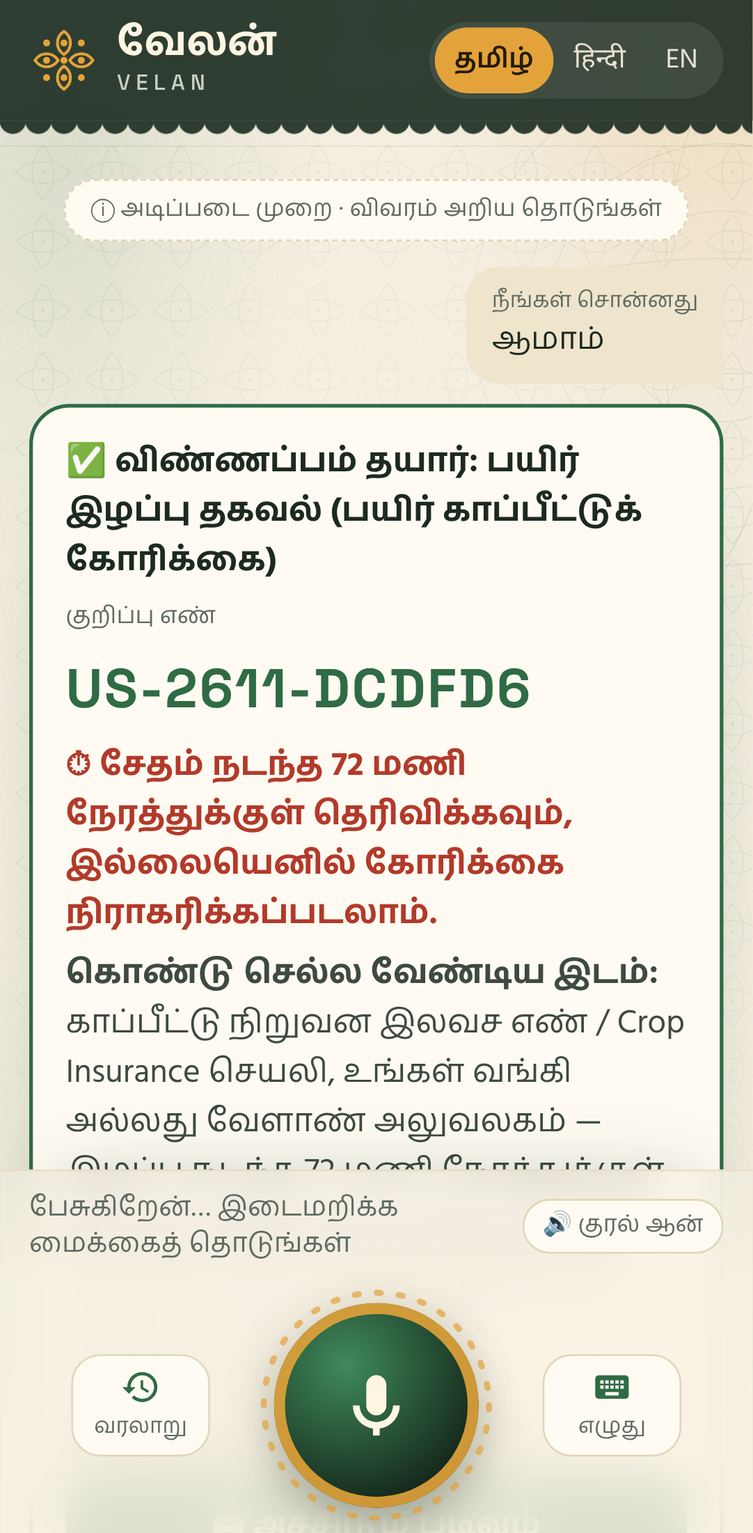
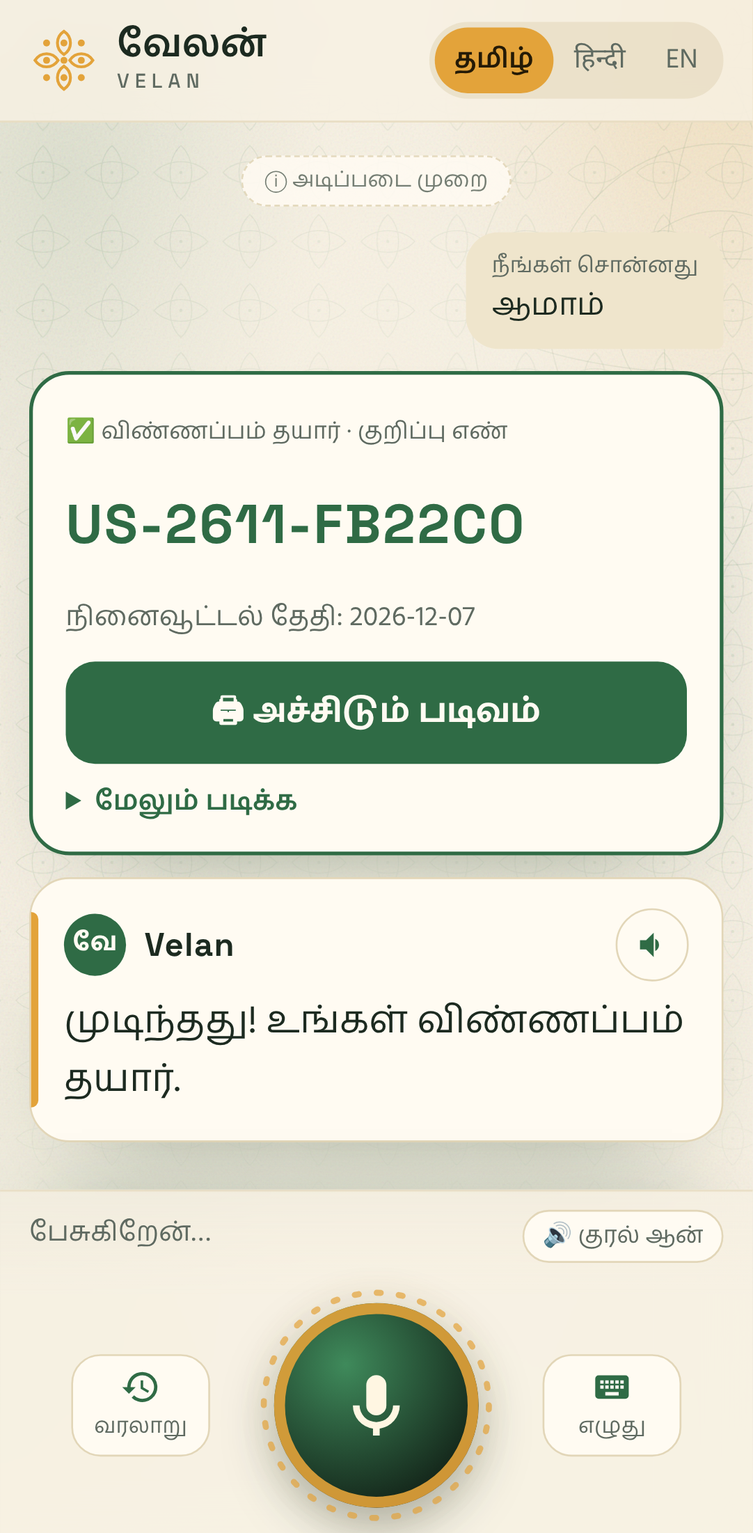
Make the app lighter and simpler to read
- Short on-screen words: one-line greeting, short status lines, tiles
  with a two-word label instead of long titles and example sentences
- Replies show at most two sentences, with "Read more" for the rest;
  Velan still speaks the full reply
- Documents appear as a checklist and the read-back as a tidy two-column
  list after the reply, instead of long sentences
- Finished application shows only the reference number, follow-up date
  and print button; where to go and deadlines sit behind "More"
- Light header instead of the dark band, light scheme-finder tile,
  lighter type weights; "My applications" moved into the History drawer

Claude-Session: https://claude.ai/code/session_01EF6aXxjPbdzoTGbQh3hmJM

Changed region(s): [[0.0, 0.0, 1.0, 0.8338], [0.793, 0.9882, 0.854, 1.0], [0.1525, 0.9882, 0.2135, 1.0]]

diff --git a/web/app.js b/web/app.js
@@ -3,11 +3,11 @@
 /* ---------------- words on screen, in three languages ---------------- */
 const UI = {
   helloTitle: { en: "Vanakkam!", ta: "வணக்கம்!", hi: "नमस्ते!" },
-  helloSub: { en: "Tap the mic and tell me what you need, in your own words.", ta: "மைக்கைத் தொட்டு, உங்களுக்கு என்ன வேண்டும் என்று உங்கள் வார்த்தைகளில் சொல்லுங்கள்.", hi: "माइक दबाइए और अपने शब्दों में बताइए कि आपको क्या चाहिए।" },
-  tap: { en: "Tap the mic and speak", ta: "மைக்கைத் தொட்டுப் பேசுங்கள்", hi: "माइक दबाकर बोलिए" },
-  listening: { en: "Listening… tap again when you finish", ta: "கேட்கிறேன்… முடிந்ததும் மீண்டும் தொடுங்கள்", hi: "सुन रहा हूँ… बोलकर फिर दबाइए" },
+  helloSub: { en: "What do you need today?", ta: "இன்று என்ன உதவி வேண்டும்?", hi: "आज क्या मदद चाहिए?" },
+  tap: { en: "Tap to speak", ta: "தொட்டுப் பேசுங்கள்", hi: "दबाकर बोलिए" },
+  listening: { en: "Listening…", ta: "கேட்கிறேன்…", hi: "सुन रहा हूँ…" },
   thinking: { en: "Working on it", ta: "பார்க்கிறேன்", hi: "देख रहा हूँ" },
-  speaking: { en: "Speaking… tap the mic to interrupt", ta: "பேசுகிறேன்… இடைமறிக்க மைக்கைத் தொடுங்கள்", hi: "बोल रहा हूँ… रोकने के लिए माइक दबाएँ" },
+  speaking: { en: "Speaking…", ta: "பேசுகிறேன்…", hi: "बोल रहा हूँ…" },
   noMic: { en: "Voice input isn't available in this browser. Please type instead.", ta: "இந்த உலாவியில் குரல் உள்ளீடு இல்லை. தட்டச்சு செய்யுங்கள்.", hi: "इस ब्राउज़र में आवाज़ इनपुट नहीं है। कृपया टाइप करें।" },
   heardNothing: { en: "Sorry, I didn't catch that. Please say it again.", ta: "மன்னிக்கவும், சரியாகக் கேட்கவில்லை. மீண்டும் சொல்லுங்கள்.", hi: "माफ़ कीजिए, ठीक से सुनाई नहीं दिया। फिर से बोलिए।" },
   typeHere: { en: "Type here…", ta: "இங்கே தட்டச்சு செய்யுங்கள்…", hi: "यहाँ लिखें…" },
@@ -38,28 +38,35 @@ const UI = {
   apply: { en: "Apply", ta: "விண்ணப்பி", hi: "आवेदन करें" },
   applyFor: { en: "I want to apply for", ta: "நான் விண்ணப்பிக்க வேண்டும்:", hi: "मुझे आवेदन करना है:" },
   findSchemes: { en: "Which schemes can I get?", ta: "எனக்கு எந்தத் திட்டங்கள் கிடைக்கும்?", hi: "मुझे कौन सी योजनाएँ मिल सकती हैं?" },
-  findSchemesSub: { en: "9 quick questions, every benefit you can claim", ta: "9 சிறு கேள்விகள் — நீங்கள் பெறக்கூடிய எல்லாப் பலன்களும்", hi: "9 छोटे सवाल — आपको मिलने वाले सारे लाभ" },
+  findSchemesSub: { en: "Find out in 9 questions", ta: "9 கேள்விகளில் தெரிந்துகொள்ளுங்கள்", hi: "9 सवालों में जानिए" },
   myApps: { en: "My applications", ta: "என் விண்ணப்பங்கள்", hi: "मेरे आवेदन" },
   sources: { en: "From", ta: "ஆதாரம்", hi: "स्रोत" },
   unverified: { en: "confirm at the office", ta: "அலுவலகத்தில் உறுதி செய்யவும்", hi: "कार्यालय में पुष्टि करें" },
   voiceOn: { en: "🔊 Voice on", ta: "🔊 குரல் ஆன்", hi: "🔊 आवाज़ चालू" },
   voiceOff: { en: "🔇 Voice off", ta: "🔇 குரல் ஆஃப்", hi: "🔇 आवाज़ बंद" },
-  basicMode: { en: "Basic mode · tap for details", ta: "அடிப்படை முறை · விவரம் அறிய தொடுங்கள்", hi: "बेसिक मोड · विवरण के लिए दबाएँ" },
+  basicMode: { en: "Basic mode", ta: "அடிப்படை முறை", hi: "बेसिक मोड" },
+  doneShort: { en: "Done! Your application is ready.", ta: "முடிந்தது! உங்கள் விண்ணப்பம் தயார்.", hi: "हो गया! आपका आवेदन तैयार है।" },
+  checkDetails: { en: "Are these details correct?", ta: "இந்த விவரங்கள் சரியா?", hi: "क्या ये जानकारी सही है?" },
+  schemesFound: { en: "Here are the schemes for you.", ta: "உங்களுக்கான திட்டங்கள் இதோ.", hi: "ये रहीं आपके लिए योजनाएँ।" },
+  bring: { en: "Bring these", ta: "கொண்டு வர வேண்டியவை", hi: "ये साथ लाएँ" },
+  more: { en: "Read more", ta: "மேலும் படிக்க", hi: "और पढ़ें" },
+  less: { en: "Show less", ta: "குறைவாகக் காட்டு", hi: "कम दिखाएँ" },
   keyNotSet: { en: "AI key not set: the main services work fully; free-form questions are understood better with the key.", ta: "AI சாவி அமைக்கப்படவில்லை: முக்கிய சேவைகள் முழுமையாக வேலை செய்யும்; சாவியுடன் இயல்பான பேச்சை இன்னும் நன்றாகப் புரிந்துகொள்ளும்.", hi: "AI कुंजी सेट नहीं है: मुख्य सेवाएँ पूरी तरह काम करती हैं; कुंजी के साथ खुली बातचीत बेहतर समझी जाती है।" },
   speechKeyNotSet: { en: "Speech key not set: using this phone's own voice recognition.", ta: "பேச்சு சாவி அமைக்கப்படவில்லை: இந்த போனின் குரல் அறிதல் பயன்படுத்தப்படுகிறது.", hi: "स्पीच कुंजी सेट नहीं है: फ़ोन की अपनी आवाज़ पहचान इस्तेमाल हो रही है।" },
 };
 
-/* the home tiles: service id → picture; titles and example sentences come from the server */
+/* the home tiles: a short label to read, and a sentence that starts the request */
 const TILES = [
-  { id: "crop_insurance", ico: "🌾" },
-  { id: "drip_irrigation", ico: "💧" },
-  { id: "solar_pump", ico: "☀" },
-  { id: "pm_kisan", ico: "🪙" },
-  { id: "compare_methods", ico: "🌿" },
-  { id: "nammalvar", ico: "🪔" },
-  { id: "old_age_pension", ico: "🙏" },
-  { id: "grievance", ico: "📣" },
+  { ico: "🌾", label: { ta: "பயிர் சேதம்", en: "Crop damage", hi: "फसल नुकसान" }, say: { ta: "நேற்று மழையில் என் நெல் சேதமானது", en: "Rain destroyed my paddy yesterday", hi: "कल बारिश से मेरी फसल खराब हो गई" } },
+  { ico: "💧", label: { ta: "சொட்டு நீர்", en: "Drip irrigation", hi: "ड्रिप सिंचाई" }, say: { ta: "சொட்டு நீர் பாசனம் வேண்டும்", en: "I want drip irrigation", hi: "मुझे ड्रिप सिंचाई चाहिए" } },
+  { ico: "☀", label: { ta: "சோலார் பம்ப்", en: "Solar pump", hi: "सोलर पंप" }, say: { ta: "சோலார் பம்ப் வேண்டும்", en: "I want a solar pump", hi: "मुझे सोलर पंप चाहिए" } },
+  { ico: "🪙", label: { ta: "பிஎம்-கிசான்", en: "PM-KISAN", hi: "पीएम-किसान" }, say: { ta: "பிஎம் கிசான்", en: "PM Kisan", hi: "पीएम किसान" } },
+  { ico: "🌿", label: { ta: "இயற்கை / ரசாயனம்", en: "Organic or chemical", hi: "जैविक या रासायनिक" }, say: { ta: "ரசாயன உரமா இயற்கை உரமா, எது நல்லது?", en: "Chemical or organic fertiliser, which is better?", hi: "रासायनिक या जैविक खाद, कौन सा बेहतर है?" } },
+  { ico: "🪔", label: { ta: "நம்மாழ்வார் முறை", en: "Nammalvar’s way", hi: "नम्मालवार विधि" }, say: { ta: "நம்மாழ்வார் இயற்கை வேளாண்மை", en: "Nammalvar natural farming", hi: "नम्मालवार प्राकृतिक खेती" } },
+  { ico: "🙏", label: { ta: "ஓய்வூதியம்", en: "Pension", hi: "पेंशन" }, say: { ta: "முதியோர் ஓய்வூதியம்", en: "Old age pension", hi: "वृद्धावस्था पेंशन" } },
+  { ico: "📣", label: { ta: "புகார்", en: "Complaint", hi: "शिकायत" }, say: { ta: "புகார் கொடுக்க வேண்டும்", en: "I want to file a complaint", hi: "मुझे शिकायत करनी है" } },
 ];
+const pick = (o) => o[state.lang] || o.en;
 
 const state = {
   lang: localGet("velan.lang") || "ta",
@@ -132,22 +139,13 @@ async function loadServices() {
 
 function renderTiles() {
   const box = $("#tiles");
-  box.replaceChildren();
-  const byId = Object.fromEntries(state.services.map((s) => [s.id, s]));
-  box.append(el("button", { class: "tile wide", onclick: () => sendText(tr("findSchemes")) },
-    el("span", { class: "ico", "aria-hidden": "true" }, "✨"),
-    el("span", {}, el("span", { class: "t-name" }, tr("findSchemes")), el("br"), el("span", { class: "t-say" }, tr("findSchemesSub")))));
-  for (const t of TILES) {
-    const s = byId[t.id];
-    if (!s) continue;
-    const say = s.example || s.title;
-    box.append(el("button", { class: "tile", onclick: () => sendText(say) },
+  box.replaceChildren(
+    el("button", { class: "tile wide", onclick: () => sendText(tr("findSchemes")) },
+      el("span", { class: "ico", "aria-hidden": "true" }, "✨"),
+      el("span", { class: "t-text" }, el("span", { class: "t-name" }, tr("findSchemes")), el("span", { class: "t-say" }, tr("findSchemesSub")))),
+    ...TILES.map((t) => el("button", { class: "tile", onclick: () => sendText(pick(t.say)) },
       el("span", { class: "ico", "aria-hidden": "true" }, t.ico),
-      el("span", { class: "t-name" }, s.title),
-      s.example ? el("span", { class: "t-say" }, `“${s.example}”`) : null));
-  }
-  box.append(el("button", { class: "tile wide", onclick: () => sendText(tr("myApps")) },
-    el("span", { class: "ico", "aria-hidden": "true" }, "📋"), el("span", { class: "t-name" }, tr("myApps"))));
+      el("span", { class: "t-name" }, pick(t.label)))));
 }
 
 function showHome(on) {
@@ -156,10 +154,26 @@ function showHome(on) {
 }
 
 /* ---------------- the stage ---------------- */
-function showReply(text, { thinking = false } = {}) {
+function sentences(text) {
+  return text.match(/[^.!?।]+[.!?।]+["”’)]*\s*|[^.!?।]+$/g)?.map((x) => x.trim()).filter(Boolean) || [text];
+}
+
+function showReply(text, { thinking = false, full = null } = {}) {
   const reply = $(".reply");
   reply.classList.toggle("thinking", thinking);
-  $("#replyText").textContent = text;
+  const box = $("#replyText");
+  box.replaceChildren();
+  const parts = sentences(text);
+  if (parts.length <= 2 || thinking) {
+    box.textContent = text;
+  } else {
+    // keep the screen light: two sentences, the rest behind "Read more"
+    const shortText = parts.slice(0, 2).join(" ");
+    const more = el("button", { class: "more" }, tr("more"));
+    let open = false;
+    more.onclick = () => { open = !open; box.firstChild.textContent = open ? text : shortText; more.textContent = open ? tr("less") : tr("more"); };
+    box.append(document.createTextNode(shortText), more);
+  }
   // restart the arrival animation
   reply.style.animation = "none"; void reply.offsetWidth; reply.style.animation = "";
 }
@@ -221,23 +235,35 @@ function renderFormSheet() {
 function openFormSheet() { renderFormSheet(); $("#formSheet").hidden = false; }
 
 function applicationCard(a) {
-  return el("div", { class: "card done-card" },
-    el("h3", {}, `✅ ${tr("prepared")}: ${a.title}`),
-    el("p", { class: "ref-label" }, tr("reference")),
-    el("p", { class: "ref" }, a.id),
+  const extra = el("details", { class: "extra" },
+    el("summary", {}, tr("more")),
     a.deadline_note ? el("p", { class: "deadline" }, "⏱ " + a.deadline_note) : null,
     el("p", {}, el("b", {}, tr("takeTo") + ": "), a.submit_to),
-    a.next_step ? el("p", {}, a.next_step) : null,
-    el("p", {}, el("b", {}, tr("followUp") + ": "), a.follow_up_on),
-    el("a", { class: "btn wide", href: a.print_url, target: "_blank", rel: "noopener" }, "🖨 " + tr("print")));
+    a.next_step ? el("p", {}, a.next_step) : null);
+  return el("div", { class: "card done-card" },
+    el("p", { class: "ref-label" }, "✅ " + tr("prepared") + " · " + tr("reference")),
+    el("p", { class: "ref" }, a.id),
+    el("p", { class: "follow" }, `${tr("followUp")}: ${a.follow_up_on}`),
+    el("a", { class: "btn wide", href: a.print_url, target: "_blank", rel: "noopener" }, "🖨 " + tr("print")),
+    extra);
+}
+
+function documentsCard(items) {
+  return el("div", { class: "card light" }, el("h3", {}, "📄 " + tr("bring")),
+    el("ul", { class: "checks" }, items.map((d) => el("li", {}, d))));
+}
+
+function reviewCard(form) {
+  return el("div", { class: "card light" },
+    el("ul", { class: "review" }, form.fields.filter((f) => f.value != null).map((f) =>
+      el("li", {}, el("span", {}, f.label), el("b", {}, f.value)))));
 }
 
 function eligibilityCard(results) {
   return el("div", { class: "card" }, el("h3", {}, "✨ " + tr("schemes")),
     el("ul", { class: "elig" }, results.map((r) => el("li", {},
       el("div", {}, el("span", { class: `tag ${r.status}` }, tr(r.status)), el("b", {}, r.name)),
-      el("div", {}, r.benefit),
-      r.reasons.length ? el("div", { class: "why" }, r.reasons.join("; ")) : null,
+      r.status !== "not_eligible" ? el("div", { class: "why" }, r.benefit) : el("div", { class: "why" }, r.reasons[0] || ""),
       r.status === "eligible" && r.service ? el("button", { class: "btn ghost", style: "margin-top:8px;min-height:44px", onclick: () => sendText(`${tr("applyFor")} ${r.name}`) }, tr("apply")) : null))));
 }
 
@@ -264,6 +290,7 @@ async function newSession() {
   renderTask(null);
   renderConfirm(null);
   $("#cards").replaceChildren();
+  $("#after").replaceChildren();
   showSaid("");
   showReply(res.greeting);
   renderSources(null);
@@ -279,6 +306,7 @@ async function sendText(text) {
   showSaid(text);
   remember("user", text);
   $("#cards").replaceChildren();
+  $("#after").replaceChildren();
   renderConfirm(null);
   renderSources(null);
   showReply(tr("thinking"), { thinking: true });
@@ -288,8 +316,14 @@ async function sendText(text) {
   try {
     const res = await api("/api/chat", { session_id: state.sessionId, text, lang: state.lang });
     renderTask(res.form);
-    showReply(res.reply);
-    state.lastReply = res.reply;
+    const evs = (type) => res.events.filter((ev) => ev.type === type);
+    let display = res.reply;
+    for (const d of evs("documents")) display = display.replace(d.data.sentence, "").replace(/\s{2,}/g, " ").trim();
+    if (evs("application").length) display = tr("doneShort");
+    else if (res.form?.awaiting_confirmation) display = tr("checkDetails");
+    else if (evs("eligibility").length) display = tr("schemesFound");
+    showReply(display);
+    state.lastReply = res.reply;   // the full reply is what gets spoken
     remember("bot", res.reply);
     renderSources(res.events.filter((ev) => ev.type === "sources").pop()?.data);
     const cards = $("#cards");
@@ -298,8 +332,10 @@ async function sendText(text) {
       if (ev.type === "application") { card = applicationCard(ev.data); remember("bot", `✅ ${ev.data.id} · ${ev.data.title}`); }
       else if (ev.type === "eligibility") card = eligibilityCard(ev.data);
       else if (ev.type === "applications") card = applicationsCard(ev.data);
+      else if (ev.type === "documents") { $("#after").append(documentsCard(ev.data.items)); continue; }
       if (card) cards.append(card);
     }
+    if (res.form?.awaiting_confirmation) $("#after").append(reviewCard(res.form));
     renderConfirm(res.form);
     window.scrollTo({ top: 0, behavior: "smooth" });
     speak(res.reply);
@@ -469,6 +505,7 @@ $("#textForm").addEventListener("submit", (e) => {
   inp.value = "";
 });
 $("#historyBtn").addEventListener("click", () => { renderHistory(); $("#history").hidden = false; });
+$("#myAppsBtn").addEventListener("click", () => { $("#history").hidden = true; sendText(tr("myApps")); });
 $("#newChat").addEventListener("click", async () => { $("#history").hidden = true; stopSpeaking(); await newSession(); });
 document.querySelectorAll("[data-close]").forEach((b) => b.addEventListener("click", () => { $("#" + b.dataset.close).hidden = true; }));
 document.querySelectorAll(".sheet").forEach((s) => s.addEventListener("click", (e) => { if (e.target === s) s.hidden = true; }));

diff --git a/web/style.css b/web/style.css
@@ -92,17 +92,18 @@ button { font: inherit; color: inherit; cursor: pointer; }
 .top {
   position: sticky; top: 0; z-index: 5;
   display: flex; align-items: center; justify-content: space-between; gap: 12px;
-  padding: 12px 16px; color: #F2ECDD;
-  background: color-mix(in srgb, var(--deep) 88%, transparent);
+  padding: 12px 16px; color: var(--ink);
+  background: color-mix(in srgb, var(--paper) 80%, transparent);
+  border-bottom: 1px solid color-mix(in srgb, var(--line) 70%, transparent);
   -webkit-backdrop-filter: blur(10px); backdrop-filter: blur(10px);
   animation: fly-in .9s var(--ease-out) both;
 }
 .brand { display: flex; align-items: center; gap: 10px; }
 .kolam-logo { width: 38px; height: 38px; color: var(--turmeric); flex-shrink: 0; }
-.brand-ta { font-weight: 700; font-size: 22px; line-height: 1.1; color: #FFF6E2; }
-.brand-en { font-family: var(--head); font-size: 12px; letter-spacing: 3px; text-transform: uppercase; color: #C9D1BF; }
-.lang { display: flex; background: rgba(255,255,255,.08); border-radius: 999px; padding: 3px; }
-.lang button { border: 0; background: transparent; color: #E8E2D2; padding: 6px 11px; min-height: 36px; border-radius: 999px; font-size: 15px; }
+.brand-ta { font-weight: 600; font-size: 21px; line-height: 1.1; color: var(--ink); }
+.brand-en { font-family: var(--head); font-size: 11px; letter-spacing: 3px; text-transform: uppercase; color: var(--muted); }
+.lang { display: flex; background: color-mix(in srgb, var(--line) 55%, transparent); border-radius: 999px; padding: 3px; }
+.lang button { border: 0; background: transparent; color: var(--muted); padding: 6px 11px; min-height: 36px; border-radius: 999px; font-size: 15px; }
 .lang button[aria-pressed="true"] { background: var(--turmeric); color: #241A06; font-weight: 600; }
 
 /* kolam border: a band of linked loops under the header */
@@ -114,7 +115,7 @@ button { font: inherit; color: inherit; cursor: pointer; }
 
 /* ---------- task bar (active form) ---------- */
 .task {
-  position: sticky; top: 78px; z-index: 4; margin: 6px 16px 0;
+  position: sticky; top: 70px; z-index: 4; margin: 6px 16px 0;
   background: var(--glass); border: 1px solid var(--line); border-radius: 16px;
   -webkit-backdrop-filter: blur(10px); backdrop-filter: blur(10px);
   padding: 10px 14px; box-shadow: var(--shadow-soft);
@@ -132,7 +133,7 @@ button { font: inherit; color: inherit; cursor: pointer; }
 .stage { flex: 1; padding: 18px 16px 270px; display: flex; flex-direction: column; gap: 14px; }
 .mode-chip {
   align-self: center; border: 1px dashed var(--line); background: var(--card); color: var(--muted);
-  border-radius: 999px; padding: 6px 14px; font-size: 13px; max-width: 100%; text-align: center;
+  border-radius: 999px; padding: 4px 12px; font-size: 12px; max-width: 100%; text-align: center; opacity: .85;
 }
 .mode-chip.open { border-radius: 14px; text-align: left; line-height: 1.45; }
 
@@ -145,28 +146,26 @@ button { font: inherit; color: inherit; cursor: pointer; }
 .tiles > :nth-child(4) { animation-delay: .42s; } .tiles > :nth-child(5) { animation-delay: .48s; }
 .tiles > :nth-child(6) { animation-delay: .54s; } .tiles > :nth-child(7) { animation-delay: .60s; }
 .tiles > :nth-child(n+8) { animation-delay: .66s; }
-.hello { margin: 0; font-size: 34px; font-weight: 700; color: var(--ink); line-height: 1.2; }
-.hello-sub { margin: 0 0 12px; font-size: 18px; color: var(--muted); }
-.tiles { display: grid; grid-template-columns: repeat(2, 1fr); gap: 12px; }
+.hello { margin: 0; font-size: 30px; font-weight: 600; color: var(--ink); line-height: 1.2; }
+.hello-sub { margin: 0 0 18px; font-size: 18px; color: var(--muted); }
+.tiles { display: grid; grid-template-columns: repeat(3, 1fr); gap: 10px; }
 .tile {
   position: relative; overflow: hidden; text-align: left;
   border: 1px solid var(--line); background: var(--card); border-radius: 18px;
-  padding: 14px 14px 16px; min-height: 104px; display: flex; flex-direction: column; gap: 8px;
+  padding: 14px 8px 12px; min-height: 96px; display: flex; flex-direction: column; align-items: center; justify-content: center; gap: 8px; text-align: center;
   box-shadow: var(--shadow-soft);
   transition: transform .35s var(--ease-out), box-shadow .35s var(--ease-out);
 }
 .tile:hover { transform: translateY(-2px); box-shadow: var(--shadow-float); }
 .tile:active { transform: translateY(1px); }
-.tile .ico { width: 40px; height: 40px; border-radius: 12px; display: grid; place-items: center; font-size: 22px; background: var(--turmeric-soft); }
-.tile .t-name { font-weight: 600; color: var(--ink); font-size: 16px; line-height: 1.3; }
+.tile .ico { width: 42px; height: 42px; border-radius: 50%; display: grid; place-items: center; font-size: 21px; background: color-mix(in srgb, var(--turmeric-soft) 70%, transparent); }
+.tile .t-name { font-weight: 500; color: var(--ink); font-size: 15px; line-height: 1.25; }
 .tile .t-say { font-size: 13px; color: var(--muted); line-height: 1.35; }
-.tile::after { /* a small kolam corner */
-  content: ""; position: absolute; right: -14px; top: -14px; width: 46px; height: 46px; border-radius: 50%;
-  border: 2px dotted var(--turmeric); opacity: .55;
-}
-.tile.wide { grid-column: 1 / -1; flex-direction: row; align-items: center; min-height: 0; background: var(--deep-2); color: #F2ECDD; border-color: transparent; }
-.tile.wide .t-name { color: #FFF6E2; }
-.tile.wide .t-say { color: #C9D1BF; }
+.tile::after { content: none; }
+.tile.wide { grid-column: 1 / -1; flex-direction: row; justify-content: flex-start; text-align: left; gap: 14px; padding: 14px 16px; min-height: 0; background: color-mix(in srgb, var(--turmeric-soft) 60%, var(--card)); border-color: color-mix(in srgb, var(--turmeric) 35%, transparent); }
+.tile.wide .t-text { display: flex; flex-direction: column; gap: 2px; }
+.tile.wide .t-name { font-size: 17px; font-weight: 600; }
+.tile.wide .t-say { color: var(--muted); font-size: 14px; }
 .tile.wide .ico { background: var(--turmeric); }
 
 .talk { display: flex; flex-direction: column; gap: 12px; }
@@ -184,7 +183,7 @@ button { font: inherit; color: inherit; cursor: pointer; }
 .reply-name { font-family: var(--head); font-weight: 700; color: var(--ink); letter-spacing: .5px; flex: 1; }
 .replay { width: 40px; height: 40px; border-radius: 50%; border: 1px solid var(--line); background: transparent; display: grid; place-items: center; color: var(--leaf); }
 .replay svg { width: 20px; height: 20px; }
-.reply-text { margin: 0; font-size: 22px; line-height: 1.45; color: var(--ink); white-space: pre-wrap; overflow-wrap: anywhere; }
+.reply-text { margin: 0; font-size: 21px; line-height: 1.5; color: var(--ink); white-space: pre-wrap; overflow-wrap: anywhere; }
 .reply.thinking .reply-text { color: var(--muted); font-size: 20px; }
 .reply.thinking .reply-text::after { content: " ●●●"; letter-spacing: 3px; animation: blink 1.2s infinite; }
 @keyframes blink { 50% { opacity: .3; } }
@@ -302,3 +301,22 @@ button { font: inherit; color: inherit; cursor: pointer; }
   .tiles { grid-template-columns: repeat(3, 1fr); }
   .tile.wide { grid-column: 1 / -1; }
 }
+
+/* ---------- lighter content: short replies, checklists ---------- */
+.more { display: inline; margin-left: 8px; border: 0; background: none; padding: 0; color: var(--leaf); font-size: 16px; font-weight: 600; text-decoration: underline; text-underline-offset: 3px; }
+.card.light { box-shadow: var(--shadow-soft); }
+.card.light h3 { font-size: 16px; font-weight: 600; color: var(--muted); }
+.checks { list-style: none; margin: 0; padding: 0; display: grid; gap: 8px; }
+.checks li { position: relative; padding-left: 30px; font-size: 17px; color: var(--ink); line-height: 1.4; }
+.checks li::before { content: ""; position: absolute; left: 0; top: 2px; width: 18px; height: 18px; border-radius: 5px; border: 2px solid var(--leaf); opacity: .7; }
+.review { list-style: none; margin: 0; padding: 0; }
+.review li { display: flex; justify-content: space-between; gap: 12px; padding: 9px 0; border-bottom: 1px dashed var(--line); font-size: 16px; }
+.review li:last-child { border-bottom: 0; }
+.review li span { color: var(--muted); }
+.review li b { color: var(--ink); font-weight: 600; text-align: right; overflow-wrap: anywhere; }
+.elig li { padding: 10px 12px; }
+.sheet-actions { display: grid; grid-template-columns: 1fr 1fr; gap: 10px; }
+.done-card { display: flex; flex-direction: column; gap: 6px; }
+.follow { margin: 0 0 8px; color: var(--muted); font-size: 15px; }
+.extra summary { cursor: pointer; color: var(--leaf); font-weight: 600; font-size: 15px; margin-top: 4px; }
+.extra p { font-size: 15px; }

diff --git a/web/index.html b/web/index.html
@@ -51,7 +51,6 @@
       </div>
     </header>
 
-    <div class="kolam-band" aria-hidden="true"></div>
 
     <section id="task" class="task" hidden></section>
 
@@ -78,6 +77,7 @@
           <p id="replyText" class="reply-text"></p>
           <p id="sources" class="sources" hidden></p>
         </article>
+        <div id="after" class="cards"></div>
         <div id="confirm" class="confirm" hidden></div>
       </div>
     </main>
@@ -116,7 +116,10 @@
         <button class="close" data-close="history" aria-label="Close">✕</button>
       </div>
       <div id="historyList" class="history-list"></div>
-      <button id="newChat" class="btn ghost wide" data-i18n="newChat">Start again</button>
+      <div class="sheet-actions">
+        <button id="myAppsBtn" class="btn ghost" data-i18n="myApps">My applications</button>
+        <button id="newChat" class="btn ghost" data-i18n="newChat">Start again</button>
+      </div>
     </div>
   </aside>
 

diff --git a/web/sw.js b/web/sw.js
@@ -1,5 +1,5 @@
 // Caches the app shell so it opens instantly on weak networks. API calls always go to the network.
-const CACHE = "velan-v4";
+const CACHE = "velan-v5";
 const SHELL = ["/", "/index.html", "/style.css", "/app.js", "/icon.svg", "/manifest.json"];
 self.addEventListener("install", (e) => e.waitUntil(caches.open(CACHE).then((c) => c.addAll(SHELL))));
 self.addEventListener("activate", (e) => e.waitUntil(

diff --git a/app/core/offline_agent.py b/app/core/offline_agent.py
@@ -146,7 +146,10 @@ class OfflineAgent:
             # urgent services skip the background so the spoken reply stays short
             parts += info["summary"]
         if info["documents"]:
-            parts.append(s_("documents", s.lang, docs=", ".join(info["documents"])))
+            sentence = s_("documents", s.lang, docs=", ".join(info["documents"]))
+            parts.append(sentence)
+            # the screen shows the list as a checklist card instead of a long sentence
+            s.emit("documents", {"sentence": sentence, "items": info["documents"]})
         if info["form_id"]:
             n = len([f for f in self.a.reg.forms[info["form_id"]]["fields"] if not f.get("ask_if")])
             parts.append(s_("offer_form", s.lang, n=n))
